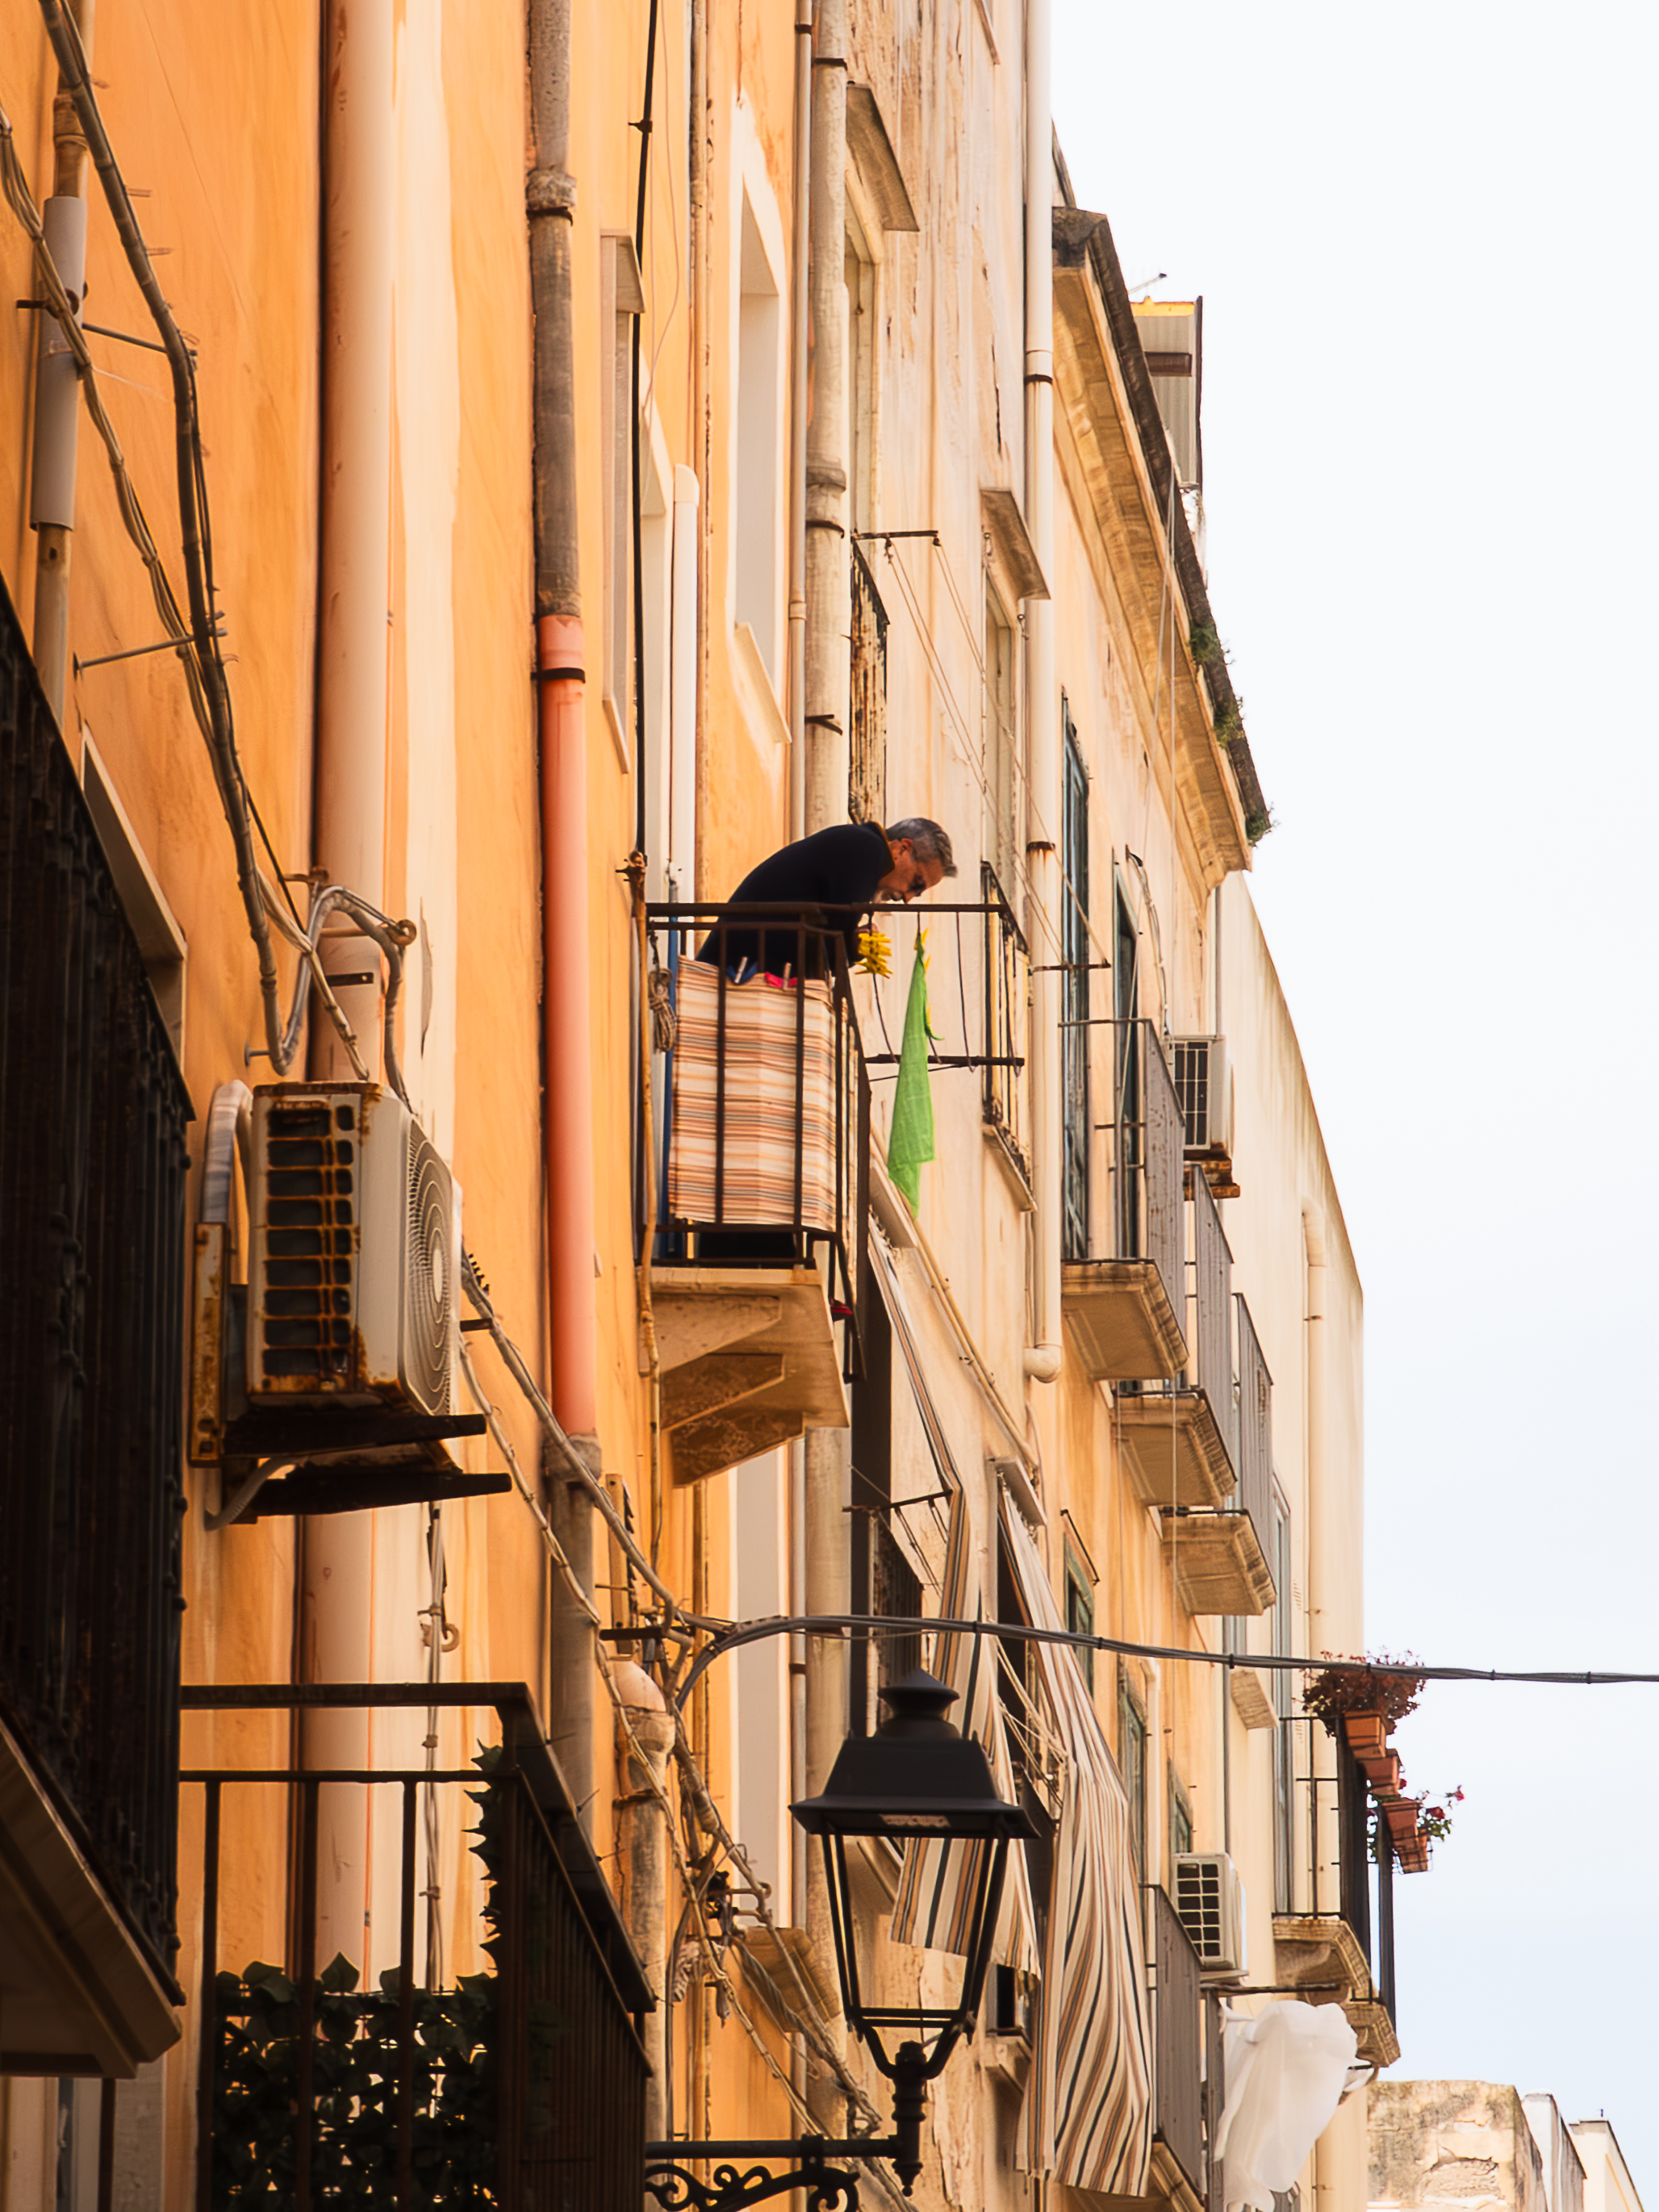
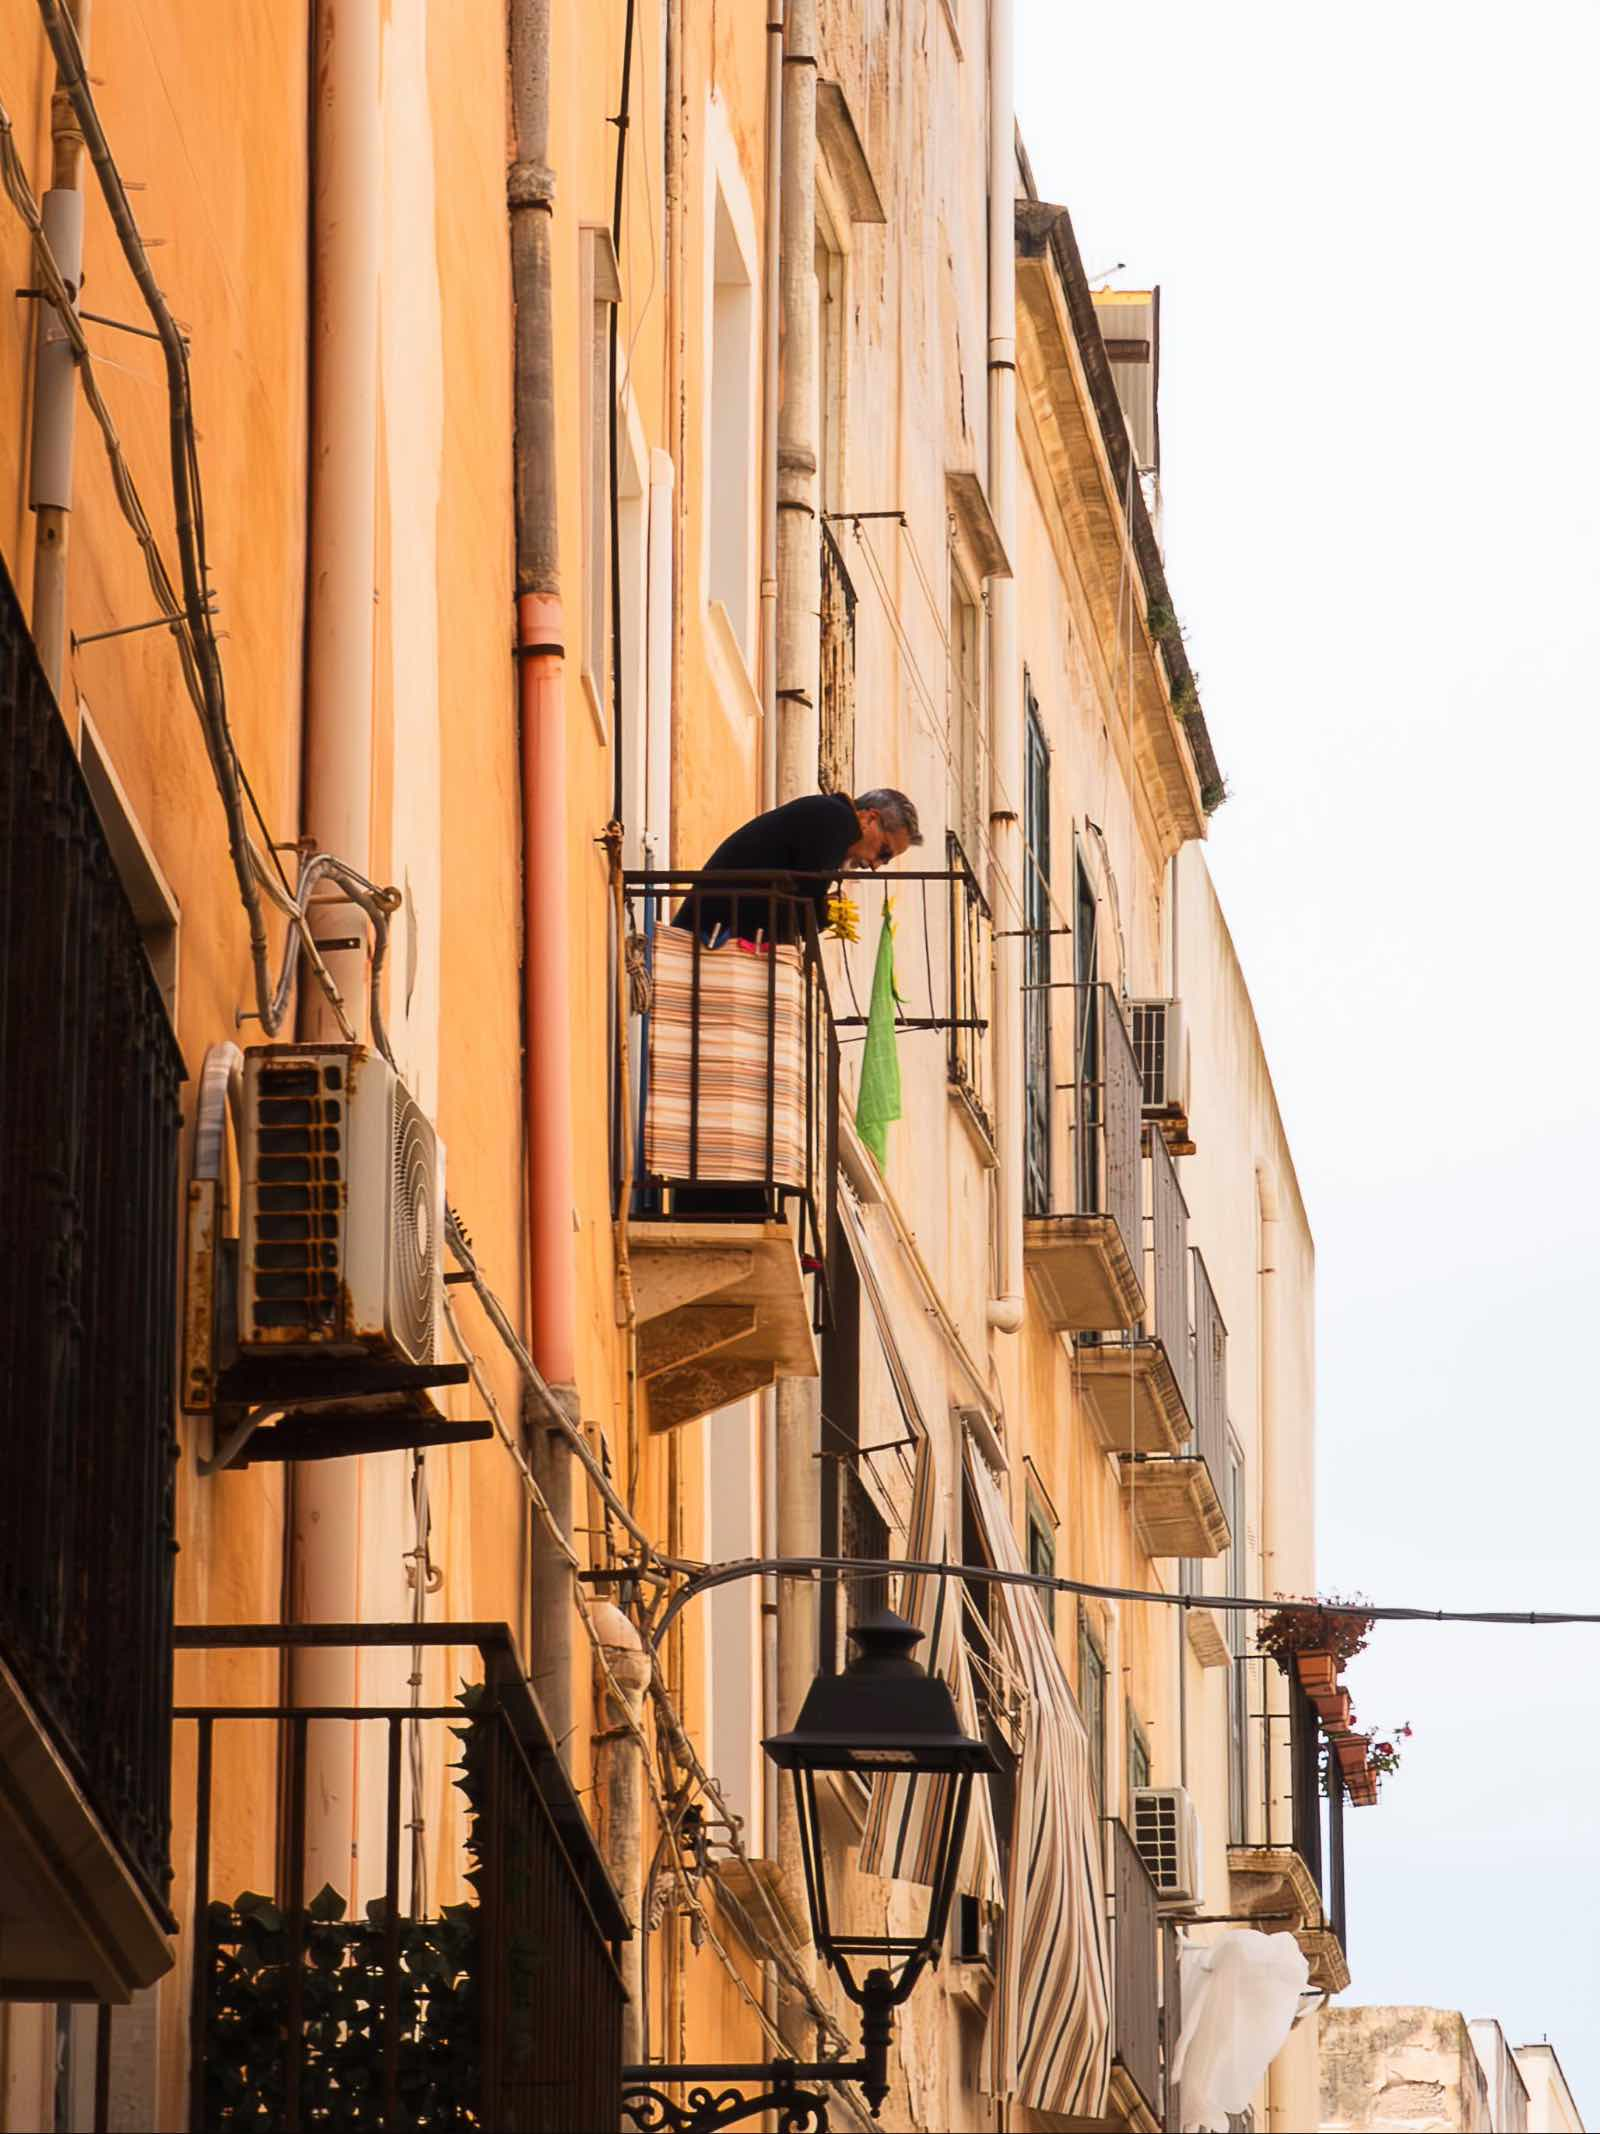
CSS erweitert

diff --git a/Assets/CSS/style.css b/Assets/CSS/style.css
@@ -1,15 +1,15 @@
  /* Browser Reset */
  * {
-     margin: 0;
-     padding: 0;
-     border: 0;
+     margin: 0px;
+     padding: 0px;
+     border: 0px;
      box-sizing: border-box;
  }
 
  /* Root Colors */
  :root {
      --black: #000000;
-     --beige: #FFEED1;
+     --beige: #fbf1de;
      --light-blue: #75C6E5;
      --yellow: #FFCF6A;
      --peach: #FF7D57;
@@ -29,7 +29,7 @@
  h2 {
      font-family: 'DM Sans', sans-serif;
      font-size: 48px;
-     color: var(--light-blue);
+     color: var(--black);
  }
 
  p {
@@ -42,7 +42,6 @@
  /* Basics */
  main {
      max-width: 2000px;
-     margin: 20px 60px
  }
 
  html,
@@ -122,7 +121,6 @@
      background-color: var(--peach);
      color: var(--beige);
      padding: 12px 32px;
-     border-radius: 16px;
      text-decoration: none;
      font-size: 16px;
      margin-top: 30px;
@@ -132,6 +130,131 @@
      font-weight: 500;
  }
 
-  .button:hover {
+ .button:hover {
      transform: scale(1.1);
+ }
+
+ /* die Idee */
+ .idee-box {
+     display: flex;
+     flex-direction: column;
+     align-items: left;
+     text-align: left;
+ }
+
+ /* Blauer Textblock */
+ .idee-textblock {
+     margin-top: 150px;
+     margin-left: 0px;
+     margin-right: 25vw;
+     background-color: var(--dark-blue);
+     color: var(--white);
+     padding: 60px 0px;
+     padding-right: 60px;
+ }
+
+ .idee-textblock p {
+     color: var(--white);
+     margin-top: 20px;
+     margin-left: 10vw;
+ }
+
+ .idee-textblock h2 {
+     color: var(--white);
+     margin-left: 10vw;
+ }
+
+ /* Galerie */
+
+ /* Galerie Bento Grid */
+
+ .gallery-title {
+    display: flex;
+    justify-content: right;
+     margin-top: 150px;
+     margin-bottom: 20px;
+ }
+
+ #gallery {
+     margin-top: 125px;
+     margin-left: 10vw;
+     margin-right: 10vw;
+ }
+
+ .bento-container-1 {
+     display: grid;
+     grid-template-columns: 1fr 1fr;
+     grid-template-rows: 60vh;
+     grid-auto-flow: dense;
+     width: 100%;
+     gap: 20px;
+     margin-bottom: 20px;
+ }
+
+ .project-item-c1 {
+     width: 100%;
+     height: 100%;
+     object-fit: cover;
+     object-position: bottom;
+     grid-column: 1 / 2;
+     grid-row: 1 / 2;
+ }
+
+ .project-item-c2 {
+     width: 100%;
+     height: 100%;
+     object-fit: cover;
+     grid-column: 2 / 3;
+     grid-row: 1 / 2;
+ }
+
+ .bento-container-2 {
+     display: grid;
+     grid-template-columns: 1fr 1fr 1fr;
+     grid-template-rows: 50vh 50vh;
+     grid-auto-flow: dense;
+     width: 100%;
+     gap: 20px;
+     margin-bottom: 50px;
+ }
+
+ .project-item-1 {
+     height: 100%;
+     width: 100%;
+     object-fit: cover;
+     grid-column: 1 / 2;
+     grid-row: 1 / 2;
+ }
+
+ .project-item-2 {
+     height: 100%;
+     width: 100%;
+     object-fit: cover;
+     grid-column: 2 / 3;
+     grid-row: 1 / 3;
+ }
+
+ .project-item-3 {
+     height: 100%;
+     width: 100%;
+     object-fit: cover;
+     grid-column: 3 / 4;
+     grid-row: 1 / 2;
+ }
+
+ .project-item-4 {
+     height: 100%;
+     width: 100%;
+     object-fit: cover;
+     grid-column: 1 / 2;
+     grid-row: 2 / 3;
+ }
+
+ .project-item-5 {
+     height: 100%;
+     width: 100%;
+     object-fit: cover;
+     object-position: top;
+     grid-column: 3 / 4;
+     grid-row: 2 / 3;
  }

diff --git a/index.html b/index.html
@@ -35,7 +35,7 @@
         </div>
         <!--Navigation Rechts-->
         <nav class="nav-right">
-            <a href="#galerie">galerie</a>
+            <a href="#gallery">galerie</a>
             <a href="#kontakt">kontakt</a>
         </nav>
     </header>
@@ -67,7 +67,7 @@
                         Die Ausstellung lädt die Besucher ein, sich in eine Welt des süssen Nichtstuns zu entführen
                         und die Schönheit des Augenblicks zu genießen.</p>
                     <!-- Button der zur Anmeldung scrollt-->
-                    <a href="#anmeldung Austellung" class="button">Jetzt anmelden!</a>
+                    <a href="#Anmeldungsformular" class="button">jetzt anmelden!</a>
                 </div>
             </div>
         </section>
@@ -75,18 +75,21 @@
 
         <!-- Idee -->
         <section id="idee">
-            <h2>die Idee</h2>
-            <div class="idee-box">
+            <div class="idee-textblock">
+                <h2>die Idee</h2>
                 <p>
                     Meine Fotoserie beschäftigt sich mit dem Gefühl von Ferien und besonders mit dem italienischen
                     Ausdruck „Dolce far niente“, der so viel bedeutet wie die Süße des Nichtstuns. Für mich
                     beschreibt dieser Ausdruck einen Zustand ohne Stress, in dem man sich einfach in der Zeit
                     verlieren darf.
-
+                </p>
+                <p>
                     In meiner Serie zeige ich verschiedene Arten, wie man dieses Gefühl erleben kann. Jeder Mensch
                     verbindet Ferien und das bewusste Hiersein auf seine eigene Weise. Deshalb habe ich sowohl
                     Momente von Reisenden als auch Szenen von Locals eingefangen, die diesen entspannten Lebensstil
                     verkörpern.
+                </p>
+                <p>
                     Das Ziel meiner Fotoserie ist es, Menschen daran zu erinnern, das Leben langsamer und bewusster
                     zu leben. Essen genießen, spielen, sich treiben lassen und nicht immer in Hektik verfallen.
                     Meine Bilder sollen dazu inspirieren, diesen Lebensstil auch im Alltag umzusetzen und nicht nur
@@ -96,21 +99,36 @@
         </section>
         <!-- Idee Ende -->
         <!-- Galerie -->
-        <section id="galerie">
-            <div class="galerie-box">
-                <img src="Assets/Image/Galerie/MariellaRaeber_01.jpg" alt="Frau am Strand">
-                <img src="Assets/Image/Galerie/MariellaRaeber_02.jpg" alt="Paar am Eis essen">
-                <img src="Assets/Image/Galerie/MariellaRaeber_03.jpg" alt="Stuhl am Strand">
-                <img src="Assets/Image/Galerie/MariellaRaeber_04.jpg" alt="Mann am Balkon">
-                <img src="Assets/Image/Galerie/MariellaRaeber_05.jpg" alt="Zwei Frauen am Meer">
-                <img src="Assets/Image/Galerie/MariellaRaeber_06.jpg" alt="Segelboot auf dem Meer">
-                <img src="Assets/Image/Galerie/MariellaRaeber_07.jpg" alt="Frau trinkt Aperol Spritz">
+        <section id="gallery">
+            <!-- Gallerie Titel -->
+            <div class="gallery-title">
+                <h2>galerie</h2>
+            </div>
+            <!-- Bento Grid -->
+            <div class="bento-container-1">
+                <img src="Assets/Image/Galerie/MariellaRaeber_06.jpg" alt="Segelboot auf dem Meer"
+                    class="project-item-c1">
+
+                <img src="Assets/Image/Galerie/MariellaRaeber_01.jpg" alt="Frau am Strand" class="project-item-c2">
+            </div>
+
+            <div class="bento-container-2">
+                <img src="Assets/Image/Galerie/MariellaRaeber_02.jpg" alt="Paar am Eis essen" class="project-item-1">
+
+                <img src="Assets/Image/Galerie/MariellaRaeber_03.jpg" alt="Stuhl am Strand" class="project-item-2">
+
+                <img src="Assets/Image/Galerie/MariellaRaeber_04.jpg" alt="Mann am Balkon" class="project-item-3">
+
+                <img src="Assets/Image/Galerie/MariellaRaeber_05.jpg" alt="Zwei Frauen am Meer" class="project-item-4">
+
+                <img src="Assets/Image/Galerie/MariellaRaeber_07.jpg" alt="Frau trinkt Aperol Spritz"
+                    class="project-item-5">
             </div>
         </section>
         <!-- Galerie Ende -->
         <!-- Anmeldung Ausstellung -->
         <!-- Anmeldungsformular hero -->
-        <section class="Anmeldungsformular">
+        <section id="Anmeldungsformular">
             <div class="anmeldung-hero">
                 <h2>anmeldung Ausstellung</h2>
             </div>
@@ -139,7 +157,7 @@
                         </label>
                         <textarea id="message" name="message" placeholder="Ihre Nachricht..."></textarea>
 
-                        <button type="submit" class="button">Senden</button>
+                        <button type="submit" class="button">senden</button>
                     </form>
                 </div>
             </div>
@@ -163,6 +181,7 @@
                     <p>Telefon: [phone redacted]</p>
                 </div>
             </div>
+        </section>
     </main>
 
     <!-- Footer -->